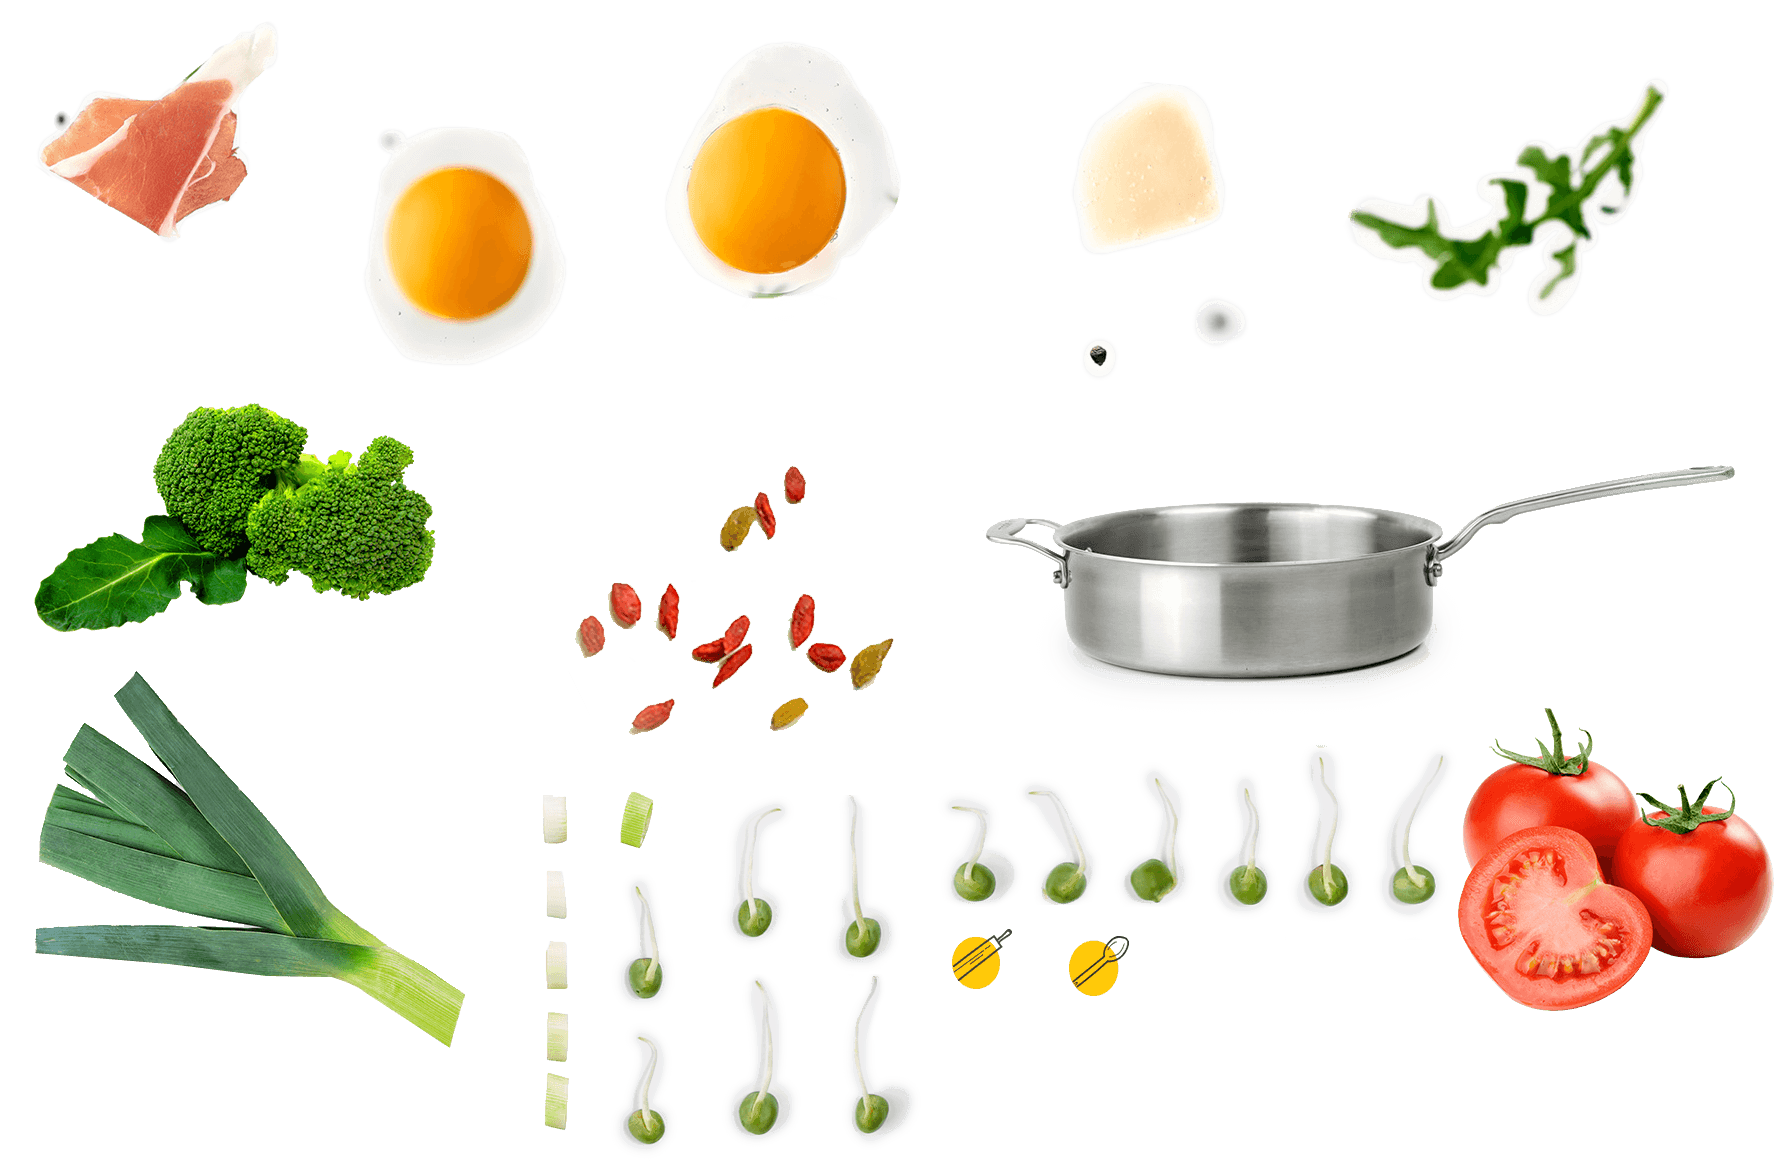
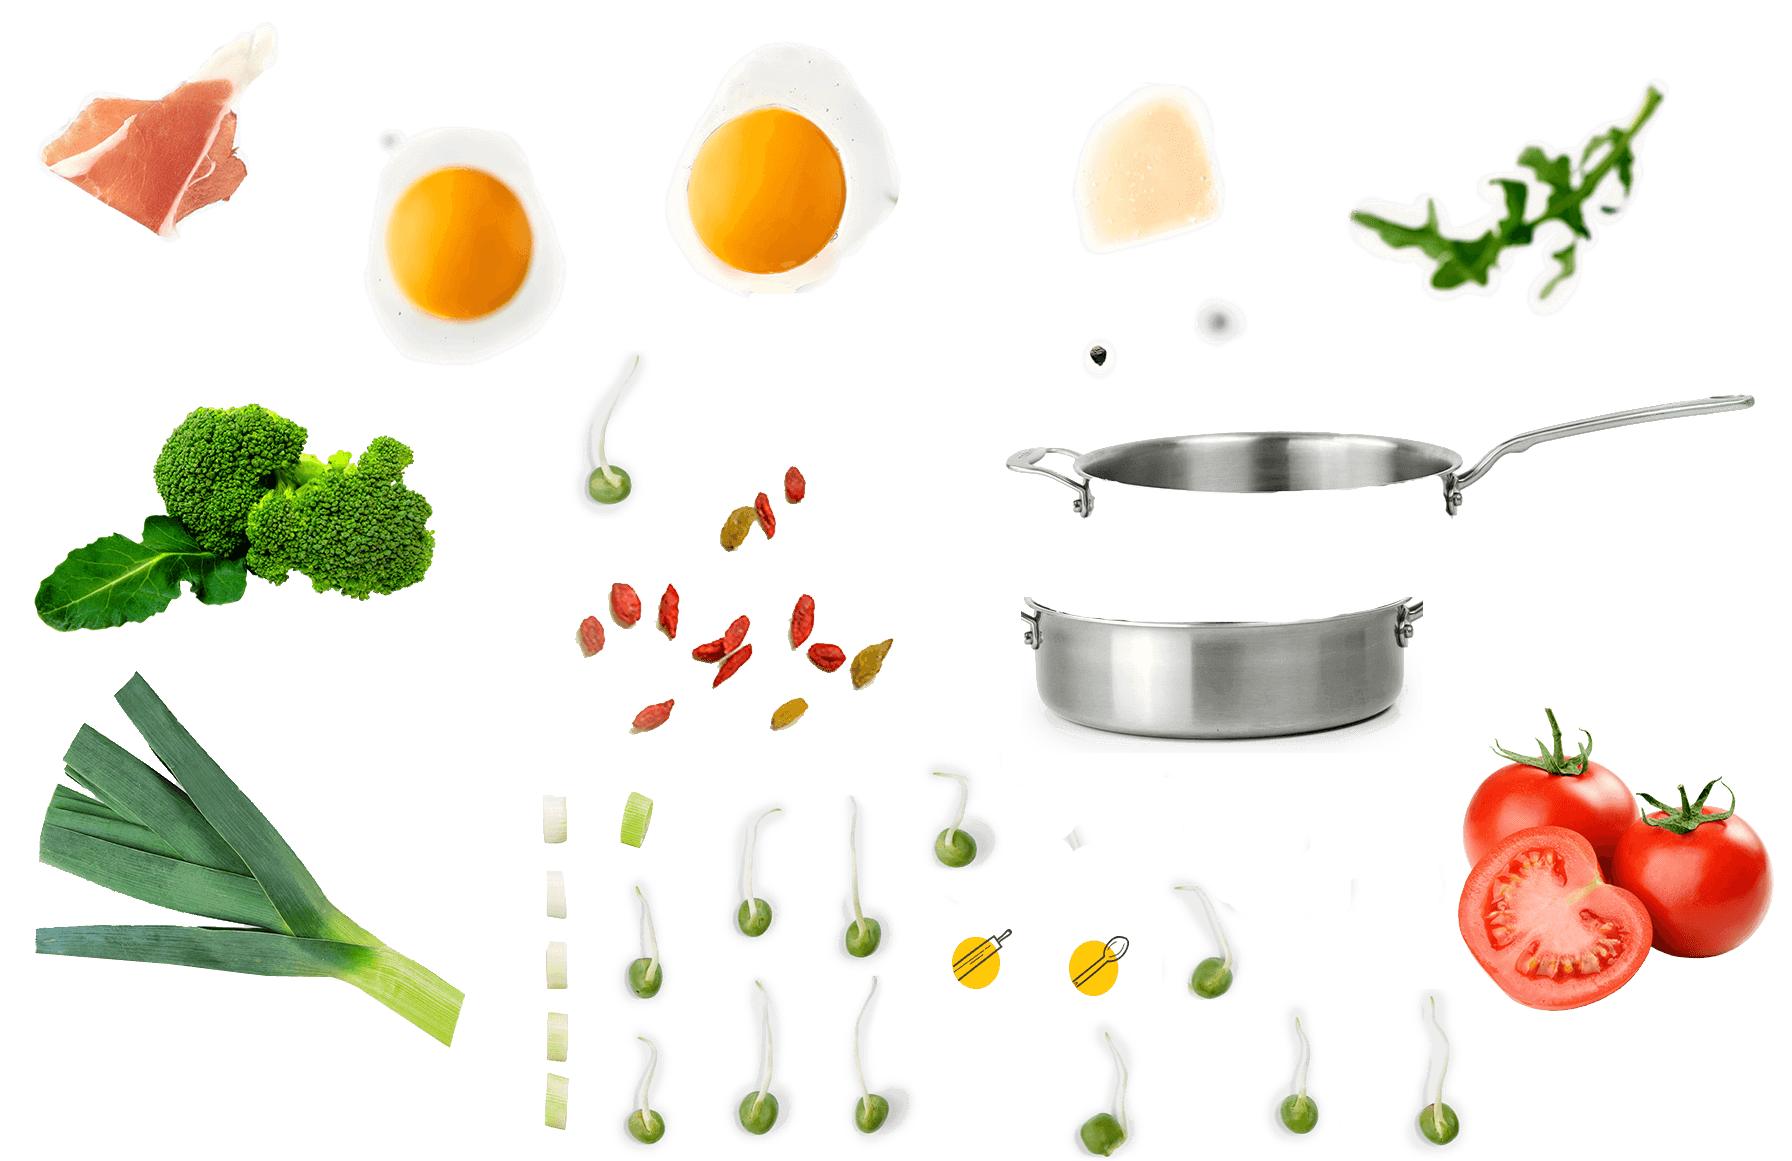
Add animation for onion home

diff --git a/css/miguel.css b/css/miguel.css
@@ -309,14 +309,15 @@ div#ms-bullet-first:after{position: absolute;bottom: 0;left: 15%;content: "";dis
 #ms-container-egg2-home{position: absolute;top: 80px;left: -20%;background: url(../img/home-page-img-mimosa.png) no-repeat 42.701% 4.602%;width: 237px;height: 270px;}
 #ms-third-section-home{background-position: 50% -140.2827px!important;}
 #ms-wrapper-img-third-section-home{position: relative;}
-#ms-onion-one{background: url(../img/home-page-img-mimosa.png) no-repeat 1.600% 87.587%;width: 351px;height: 330px;position: absolute;top: -290px;left: -18%;background-size: 390%;transform: rotate(6deg);}
-#ms-onion-two{background: url(../img/home-page-img-mimosa.png) no-repeat -620px -791px;width: 34px;height: 58px;position: absolute;top: -12px;left: 22%;transform: rotate(-6deg);}
-#ms-onion-three{background: url(../img/home-page-img-mimosa.png) no-repeat -544px -1072px;width: 25px;height: 59px;position: absolute;top: -5px;left: 250px;}
-#ms-onion-four{background: url(../img/home-page-img-mimosa.png) no-repeat -546px -1012px;width: 23px;height: 51px;position: absolute;top: 10px;left: 300px;}
-#ms-onion-five{background: url(../img/home-page-img-mimosa.png) no-repeat -545px -941px;width: 24px;height: 49px;position: absolute;top: 15px;left: 350px;}
-#ms-onion-six{background: url(../img/home-page-img-mimosa.png) no-repeat -546px -870px;width: 21px;height: 49px;position: absolute;top: 19px;left: 400px;}
-#ms-onion-seven{background: url('../img/home-page-img-mimosa.png') no-repeat -542px -795px;width: 26px;height: 49px;position: absolute;top: 15px;left: 440px;}
-#ms-pot-under-onion{background: url(../img/home-page-img-mimosa.png) no-repeat 100% 50%;background-size: 210%;width: 736px;height: 220px;position: absolute;top: 50px;left: 9%;}
+#ms-onion-one{background: url(../img/home-page-img-mimosa.png) no-repeat 1.600% 87.587%;width: 351px;height: 330px;position: absolute;top: -290px;left: -18%;background-size: 390%;transform: rotate(6deg);z-index:14;}
+#ms-onion-two{background: url(../img/home-page-img-mimosa.png) no-repeat -620px -791px;width: 34px;height: 58px;position: absolute;top: -12px;left: 22%;transform: rotate(-6deg);z-index:14;}
+#ms-onion-three{background: url(../img/home-page-img-mimosa.png) no-repeat -544px -1072px;width: 25px;height: 59px;position: absolute;top: -5px;left: 250px;z-index:14;}
+#ms-onion-four{background: url(../img/home-page-img-mimosa.png) no-repeat -546px -1012px;width: 23px;height: 51px;position: absolute;top: 10px;left: 300px;z-index:14;}
+#ms-onion-five{background: url(../img/home-page-img-mimosa.png) no-repeat -545px -941px;width: 24px;height: 49px;position: absolute;top: 15px;left: 350px;z-index:14;}
+#ms-onion-six{background: url(../img/home-page-img-mimosa.png) no-repeat -546px -870px;width: 21px;height: 49px;position: absolute;top: 19px;left: 400px;z-index:14;}
+#ms-onion-seven{background: url('../img/home-page-img-mimosa.png') no-repeat -542px -795px;width: 26px;height: 49px;position: absolute;top: 15px;left: 440px;z-index: 14;}
+#ms-pot-under-onion{background: url(../img/home-page-img-mimosa.png) no-repeat 126.449% 38.178%;background-size: 160%;width: 975px;height: 155px;position: absolute;top: 60px;left: -4%;z-index: 13;}
+#ms-pot-internal-onion{background: url(../img/home-page-img-mimosa.png) no-repeat 73.453% 63.403%;background-size: 404%;width: 390px;height: 180px;position: absolute;top: 146px;left: 18%;z-index: 15;}
 #ms-third-section-home #ms-third-section-content{padding: 40px 0 15px 0;}
 #ms-wrapper-content-third-section-home .ms-primary-btn-bl{margin-top:35px;}
 .ms-italics{font-weight: bold;font-style: italic;}
@@ -801,8 +802,8 @@ div#ms-bullet-first:after{position: absolute;bottom: 0;left: 15%;content: "";dis
     #ms-container-bacon-home{right: -50%;}
     #ms-onion-one{top:-310px;}
     #ms-onion-two{left:28%;}
-    #ms-pot-under-onion{background: url(../img/home-page-img-mimosa.png) no-repeat 103% 49%;background-size: 200%;width: 726px;height: 210px;position: absolute;left: 6%;}
     #ms-third-section-home{background-position: 50% -200.2827px!important;}
+    #ms-pot-internal-onion{top:147px;}
     #ms-seed-three{left:33%;}  
     #ms-seed-two{left:46%;}
     #ms-seed-five{right: 10%;}

diff --git a/js/app.js b/js/app.js
@@ -98,6 +98,47 @@ jQuery(function ($) {
         }).progress(0.5);*/
       })();
       
+      function amiateOnionHome(id){
+        if(id==3){
+          let fragmentOnion1 = document.getElementById("ms-onion-seven");
+          let fragmentOnion2 = document.getElementById("ms-onion-six");
+          let fragmentOnion3 = document.getElementById("ms-onion-five");
+          let fragmentOnion4 = document.getElementById("ms-onion-four");
+          let fragmentOnion5 = document.getElementById("ms-onion-three");
+          let fragmentOnion6 = document.getElementById("ms-onion-two");
+          let fragmentOnion7 = document.getElementById("ms-onion-one");
+          let animation = new TimelineMax({delay:0.2})
+          animation.to(fragmentOnion1, 0.9, {
+            y:140,
+            ease: Bounce.easeOut  
+          });
+          animation.to(fragmentOnion2, 0.7, {
+            y:140,
+            ease: Bounce.easeOut  
+          });
+          animation.to(fragmentOnion3, 0.7, {
+            y:147,
+            ease: Bounce.easeOut  
+          });
+          animation.to(fragmentOnion4, 0.7, {
+            y:150,
+            ease: Bounce.easeOut  
+          });
+          animation.to(fragmentOnion5, 0.7, {
+            y:167,
+            ease: Bounce.easeOut  
+          });
+          animation.to(fragmentOnion6, 0.7, {
+            y:170,
+            ease: Bounce.easeOut 
+          });
+          animation.to(fragmentOnion7, 0.7, {
+            y:160,
+            x:150,
+            rotation:34,
+          });
+        }
+      }
 
       (function animateLogistique(){
         /* Seeds Movement */
@@ -224,6 +265,7 @@ jQuery(function ($) {
                 updateURL: false,                
                 beforeMove: function(index) {
                   animateCustomersHome(index);
+                  amiateOnionHome(index);
                 },  
                 afterMove: function(index) {
                 },   
